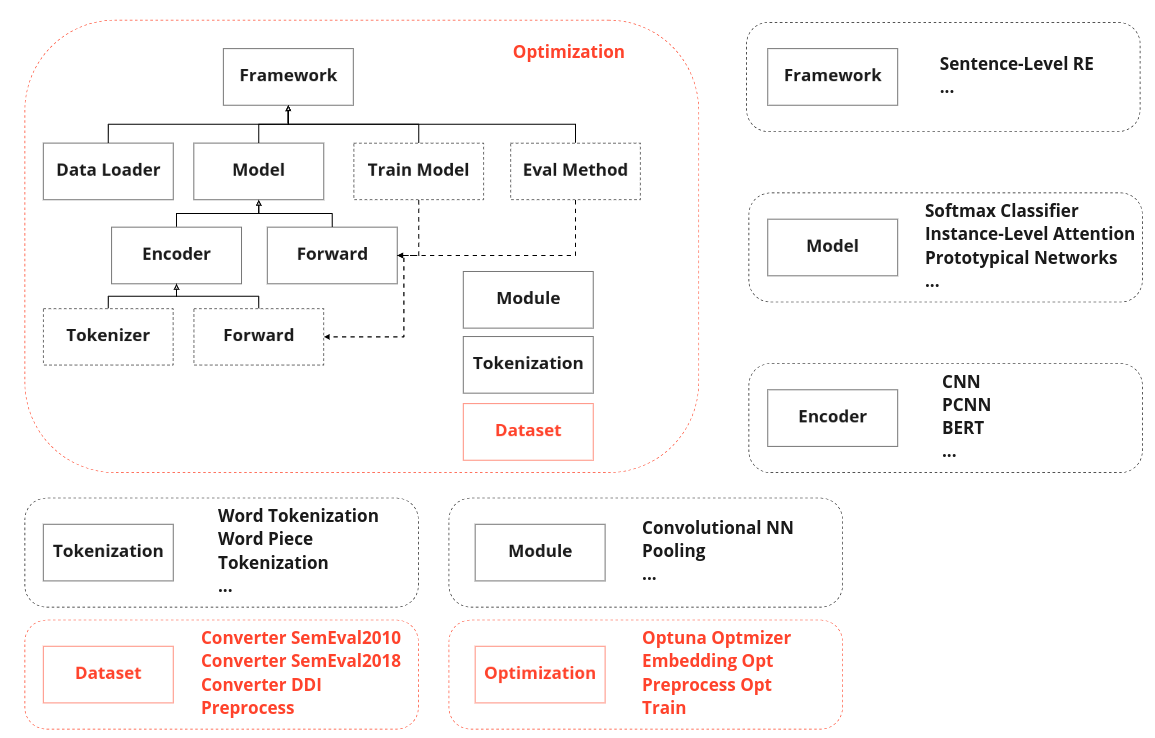
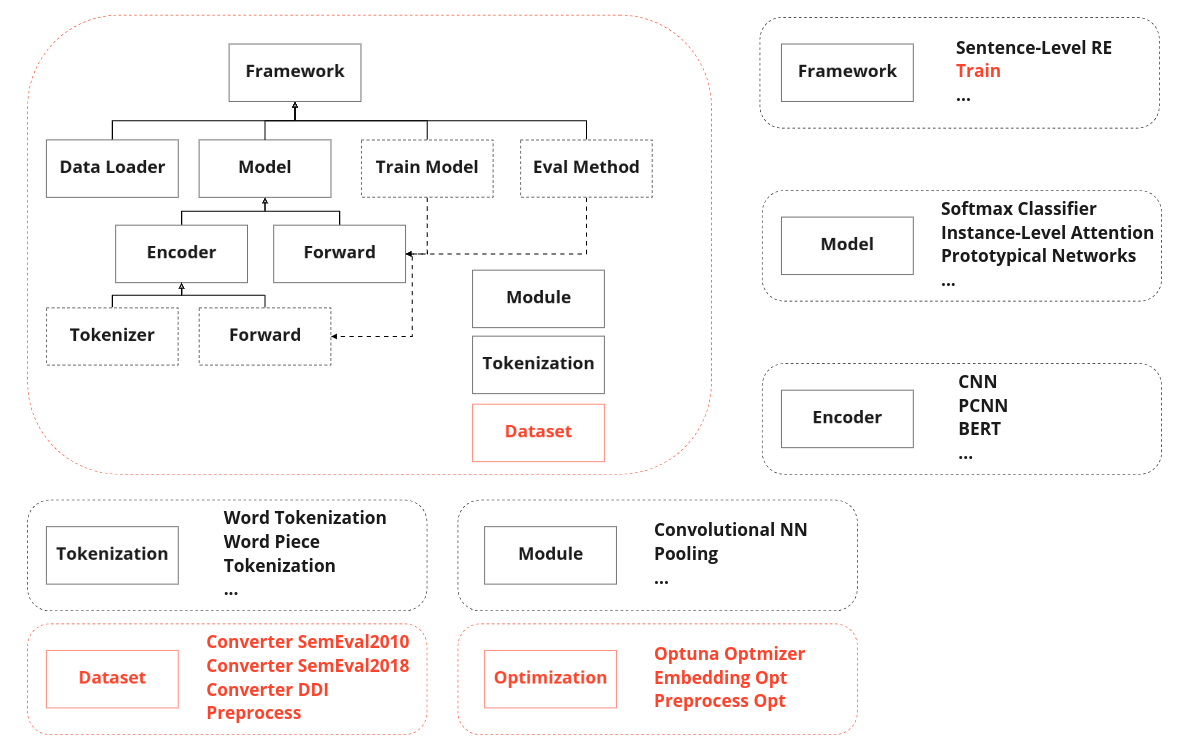
README and figure done

diff --git a/README.md b/README.md
@@ -29,9 +29,15 @@ Then install the package with
 python setup.py install
 ```
 
-## Classes Diagram
+## DeepREF Classes Diagram
 
 ![alt text](figures/DeepREF_Class_Diagram.png)
+
+The framework code base was made upon the OpenNRE toolkit. The lines in black are the preexistent modules in OpenNRE. The red lines are new modules added to the DeepREF. Some of the new modules came from REflex. The Dataset module has all the scripts necessary to convert a dataset to .csv file in a standard format to further preprocessing. 
+
+If you want to convert a new dataset, you have to create a converter file and put in this module. The optimization module has all the scripts necessary to findthe best combination of dataset preprocessing, embeddings and hyperparameters.
+
+The other modules in black is explained on OpenNRE [paper](https://aclanthology.org/D19-3029.pdf). There is a file named `train.py` that can train any model and it was inserted on Framework module. This file will be explained later in this docs.
 
 ## Preprocessing
 
@@ -114,7 +120,7 @@ If you want to add a new architecture to the framework, create a encoder to this
 
 To add a new dataset you have it's important to create a new .sh file on `benchmark` folder to download the dataset named `download_<dataset>.sh`. Follow the other preexistent .sh scripts to create a new one. After this, create a converter in the format `converter_<dataset>.py` to the dataset in `opennre/dataset/converters` directory to transform the downloaded dataset into a .csv file in a standard format to preprocess and generate .txt to train in the framework. Follow the other preexistent .py scripts to converter a custom dataset. Add the dataset name to the `DATASETS` list on `opennre/config.py` file.
 
-## Best model architecture
+## Simple Deep Neural Network Architecture in DeepREF
 
 This is the best model architecture available in the framework:
 
